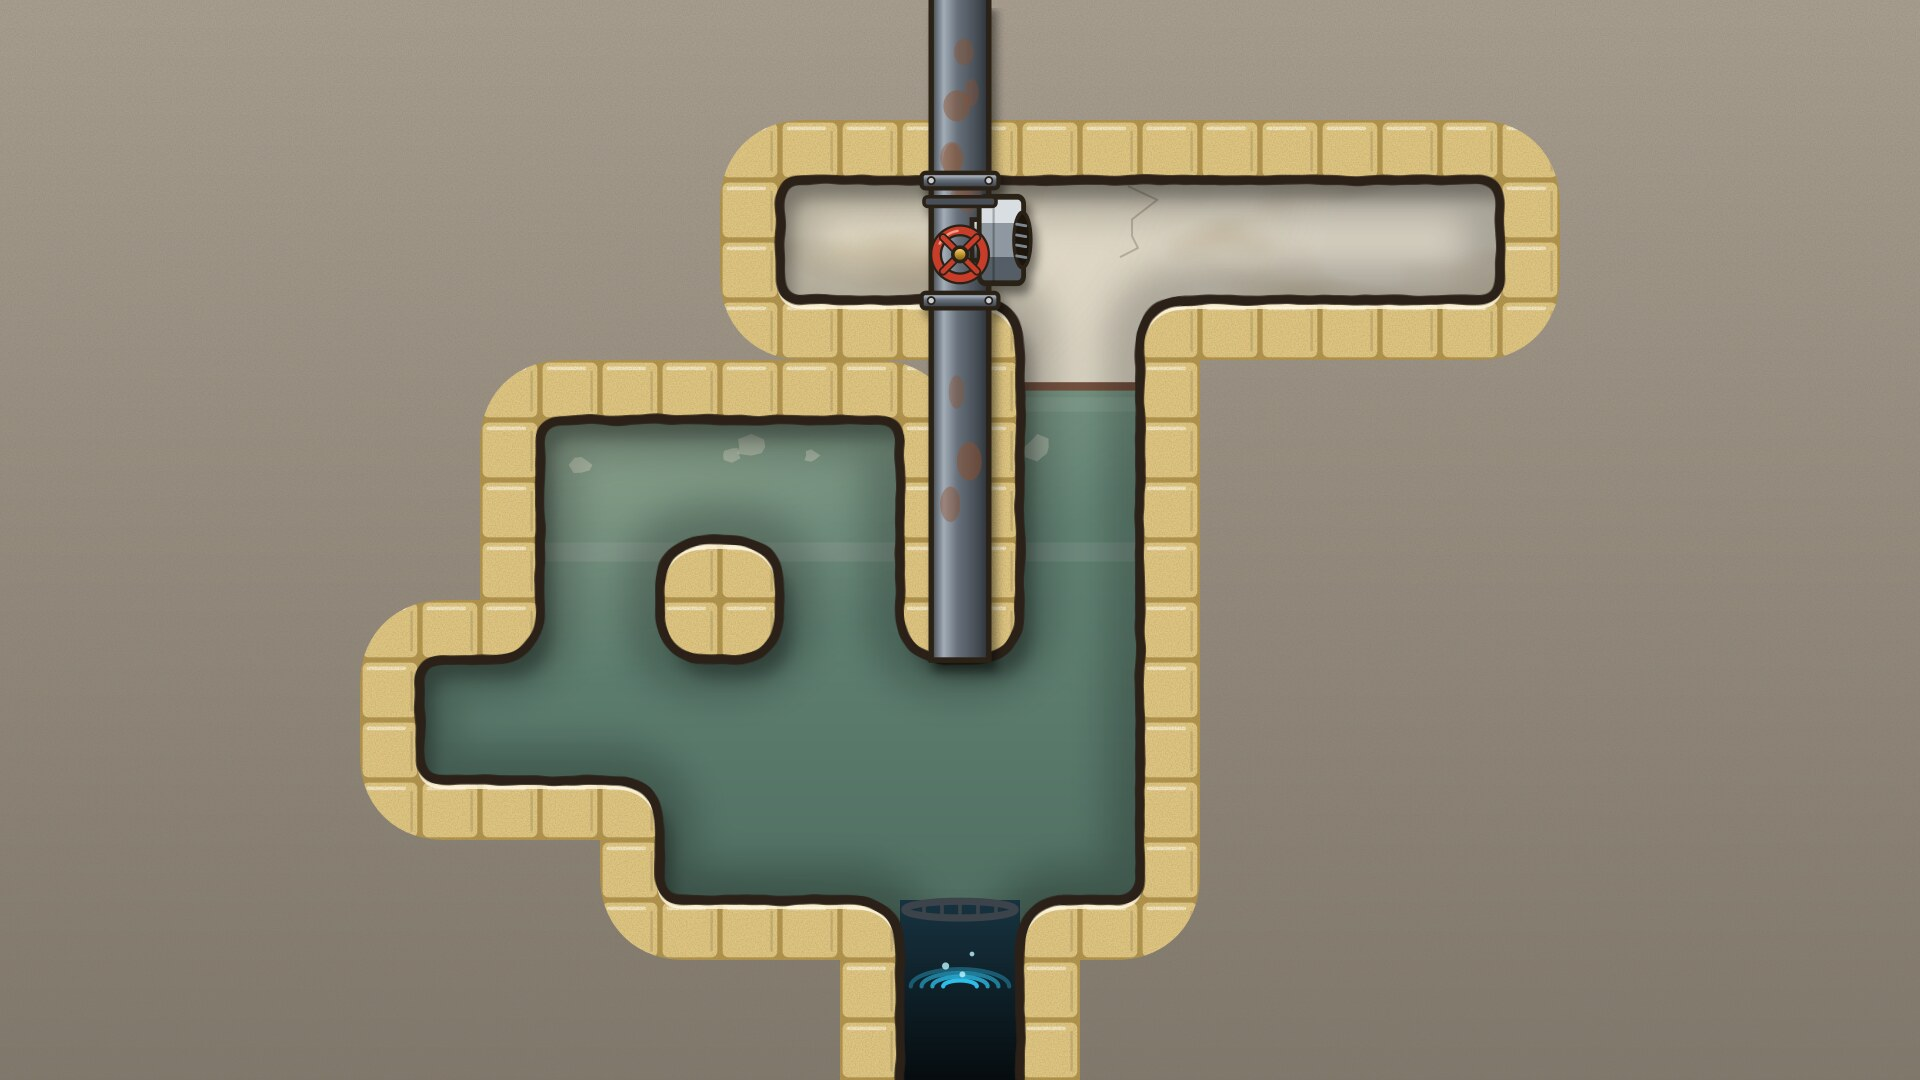
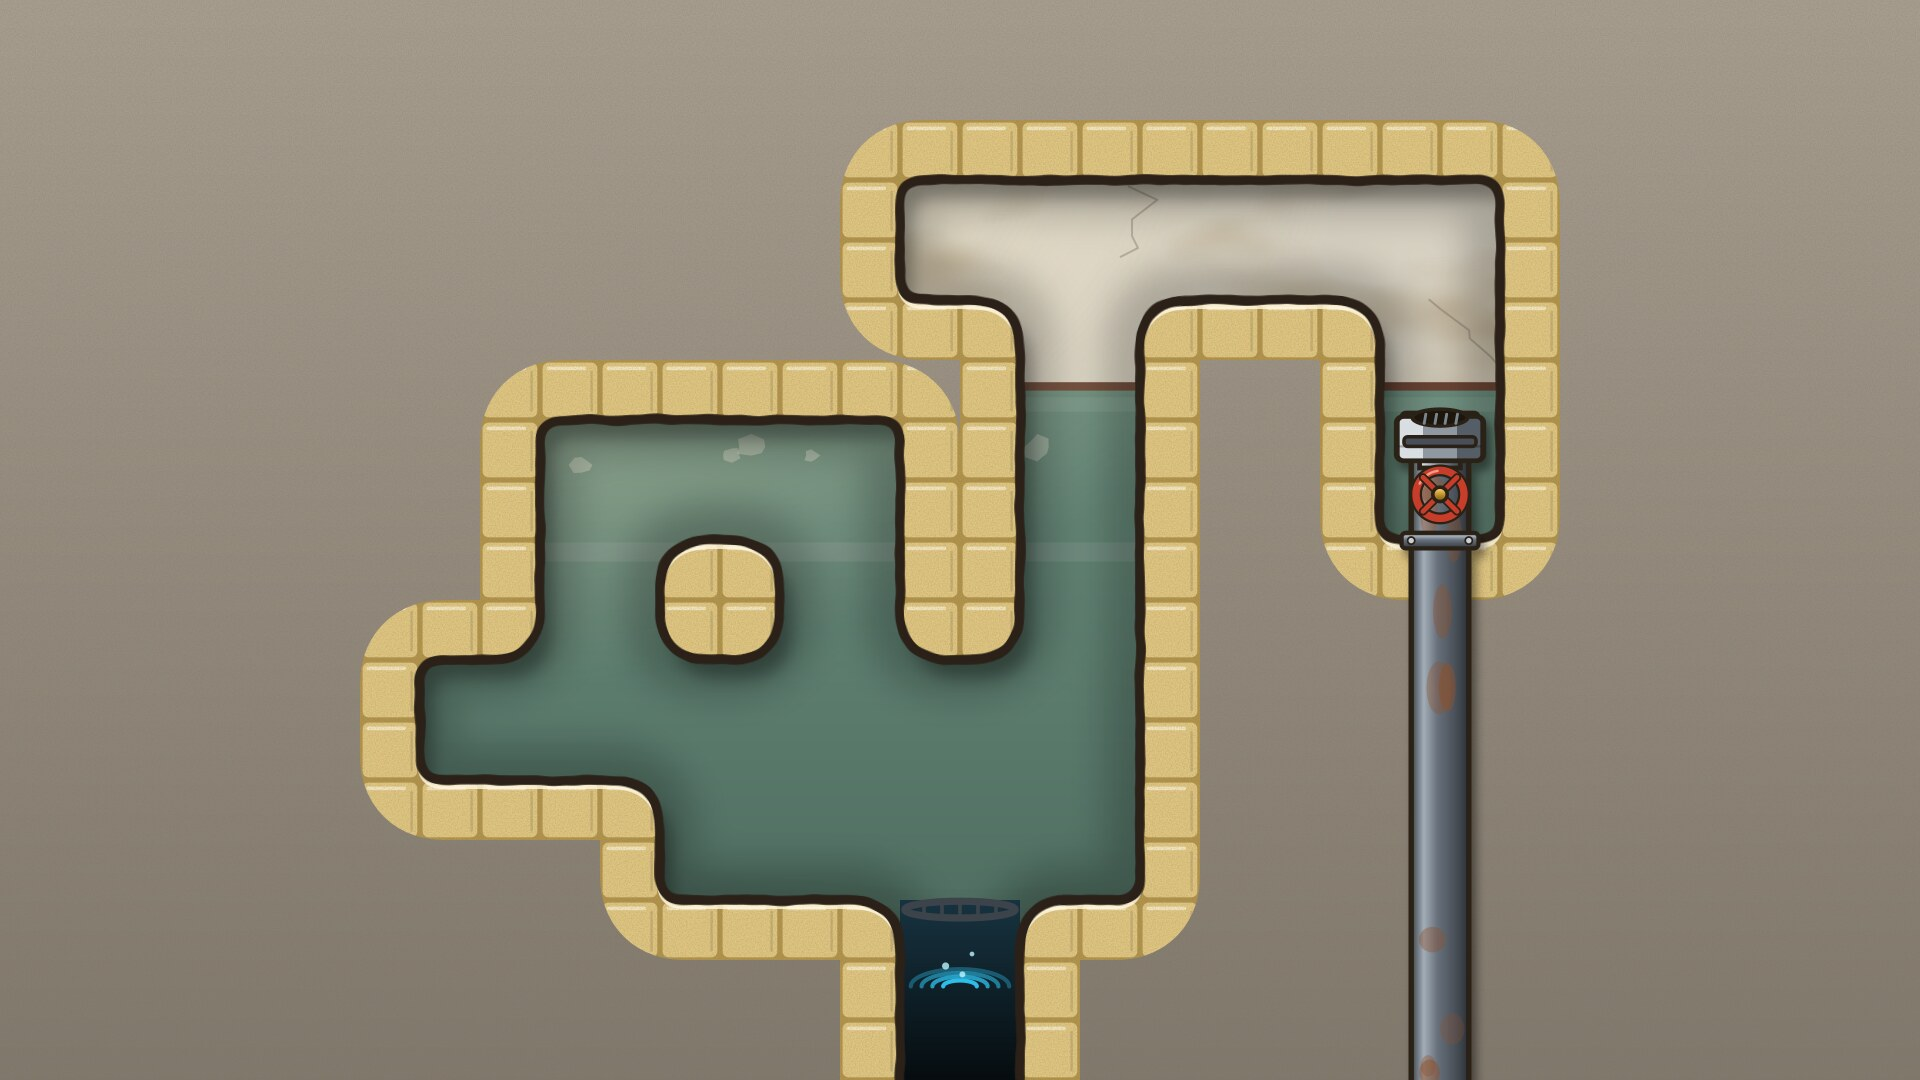
Кв. 3 «Мыло»: s8 после слепой проверки — 30 ходов, прогулка 9, подсказка-крючок; фон и отчёты; журнал п. 3 (кв. 3, 5)
Claude-Session: https://claude.ai/code/session_01KTF9zcDbthXae1taWntBSd

Changed region(s): [[0.6875, 0.2444, 0.8125, 1.0], [0.375, 0.0, 0.5625, 0.6111]]

diff --git a/reports/metrics.md b/reports/metrics.md
@@ -8,7 +8,7 @@
 | --- | --- | --- | --- | --- | --- | --- | --- | --- | --- | --- | --- | --- | --- |
 | 1 | «Не той стороной» | 9×7 | 2–4 | 0 | 211 (≤ 20000) | 15 (15–40) | 38.4% (≥ 25%) | 0 (≥ 1) | 1 | 0.76 % | 3 (3) | без крюка: нерешаем ✓; крюк без крепления: нерешаем ✓ | ⚠ мало ложных веток |
 | 2 | «Скалолаз» | 11×10 | 2–4 | 0 | 215 (≤ 50000) | 20 (15–40) | 70.7% (≥ 25%) | 11 (≥ 0) | 1 | 0 % | 1 (1) | замурован только крюк ряда лаза: нерешаем ✓; замурован только якорь шахты: нерешаем ✓; зацепиться на лету нельзя: нерешаем ✓ | ✅ |
-| 3 | «Мыло» | 11×8 | 2–5 | 0 | 4017 (≤ 100000) | 32 (15–40) | 82.6% (≥ 35%) | 6 (≥ 2) | 1 | 0 % | 6 (3) | без фаянса: нерешаем ✓; подставку не выбить: нерешаем ✓; мыло на мыло не ляжет: нерешаем ✓; мост запрещён: нерешаем ✓; подъёмник запрещён: нерешаем ✓ | ✅ |
+| 3 | «Мыло» | 11×8 | 2–5 | 0 | 4034 (≤ 100000) | 30 (15–40) | 82.3% (≥ 35%) | 6 (≥ 2) | 1 | 0 % | 6 (3) | без фаянса: нерешаем ✓; подставку не выбить: нерешаем ✓; мыло на мыло не ляжет: нерешаем ✓; мост запрещён: нерешаем ✓; подъёмник запрещён: нерешаем ✓; мыло не ляжет на голову: нерешаем ✓ | ✅ |
 | 4 | «Резьба» | 9×9 | 2–4 | 0 | 9539 (≤ 300000) | 23 (15–40) | 79.6% (≥ 40%) | 1 (≥ 2) | 1 | 0.1 % | 66 (7) | без муфты: нерешаем ✓; без ниппеля: нерешаем ✓; без угольника: нерешаем ✓; по одной нельзя: нерешаем ✓ | ⚠ мало ложных веток; широкий коридор решений (7) |
 | 5 | «Лишний выход» | 9×7 | 2–4 | 0 | 1682 (≤ 100000) | 15 (15–40) | 41.7% (≥ 35%) | 1 (≥ 1) | 1 | 0.05 % | 1 (1) | без заглушки: нерешаем ✓; тройник заглушён заранее: нерешаем ✓; ступенька запрещена: нерешаем ✓ | ✅ |
 | 6 | «Намертво» | 11×5 | 3–5 | 0 | 30969 (≤ 1000000) | 23 (15–40) | 86.2% (≥ 50%) | 10 (≥ 3) | 1 | 0 % | 2 (2) | без ниппеля: нерешаем ✓; без муфты: нерешаем ✓; пара не держит муфту над сливом: нерешаем ✓; ниппель не переходит муфту поверху: нерешаем ✓ | ✅ |

diff --git a/build/p3/REVIEW.md b/build/p3/REVIEW.md
@@ -131,3 +131,9 @@
 - **Решения Lao 30.09:** (1) вариант Б — кв. 7 «Дали напор» лёгкий ввод напора: F39 → levels/07.lua (20 ходов, честно 35 %,
   ворота в полном объёме не требуются, §6 поправлен); первый уровень напора с полными воротами — кв. 8 «Брандспойт»;
   (2) ворота 30.09 утверждены. Запущены: кв. 8 (build/l8a), доводки кв. 3 (build/l3d) и кв. 5 (build/l5d).
+- **30.09, после перехода на Opus (у Fable кончились кредиты; автор и скептик — одна модель, разные запуски, скептик слеп).**
+  Кв. 3: s8 (build/l3d) → levels/03.lua как улучшение без статуса «принят»: 30 ходов (было 32), прогулка 9 (было 11),
+  подсказка №1 — крючок, второй приём закреплён абляцией, разметка последовательна; скрытых 27 %, но скачок при кармане 5
+  до 0 %, ошибка плана одна (первый ход). Скептик (build/l3v2): fail по воротам, но не хуже прежней ни по одной цифре.
+  Кв. 5: 11 кандидатов (build/l5d), ни один не прошёл; p9 — «ага» от течи, честно 0 %; k3 — 37,6 %, прогулка 13. Не ставлю.
+  Общий вывод по кв. 3, 4, 5: у ранних квартир одна ошибка плана в начале и коридор после неё — это свойство ядер, вопрос Lao.

diff --git a/WALKTHROUGH_SPOILERS.md b/WALKTHROUGH_SPOILERS.md
@@ -12,12 +12,11 @@
 1. Н←  2. Н←  3. Н↓  4. Н→  5. Г←  6. Г↓  7. Г←  8. Г←  9. Н←  10. Г←  
 11. Г↑  12. Г←  13. Н←  14. Н↑  15. Н↑  16. Н←  17. Г→  18. Г↑  19. Г↑  20. Г←  
 
-## Кв. 3 · «Мыло» — 32 ходов
+## Кв. 3 · «Мыло» — 30 ходов
 
 1. Н↑  2. Н←  3. Н↑  4. Н↑  5. Н→  6. Н←  7. Н↓  8. Н↓  9. Н→  10. Н↓  
 11. Н→  12. Н↑  13. Н→  14. Н→  15. Н↓  16. Н←  17. Н←  18. Н←  19. Н↑  20. Н→  
-21. Н→  22. Г→  23. Г↑  24. Г→  25. Г↑  26. Г↑  27. Г↑  28. Г↑  29. Г→  30. Г→  
-31. Н↑  32. Н↑  
+21. Н→  22. Н→  23. Н↑  24. Н↑  25. Н↑  26. Н↑  27. Н→  28. Н→  29. Н→  30. Н↓  
 
 ## Кв. 4 · «Резьба» — 23 ходов
 
